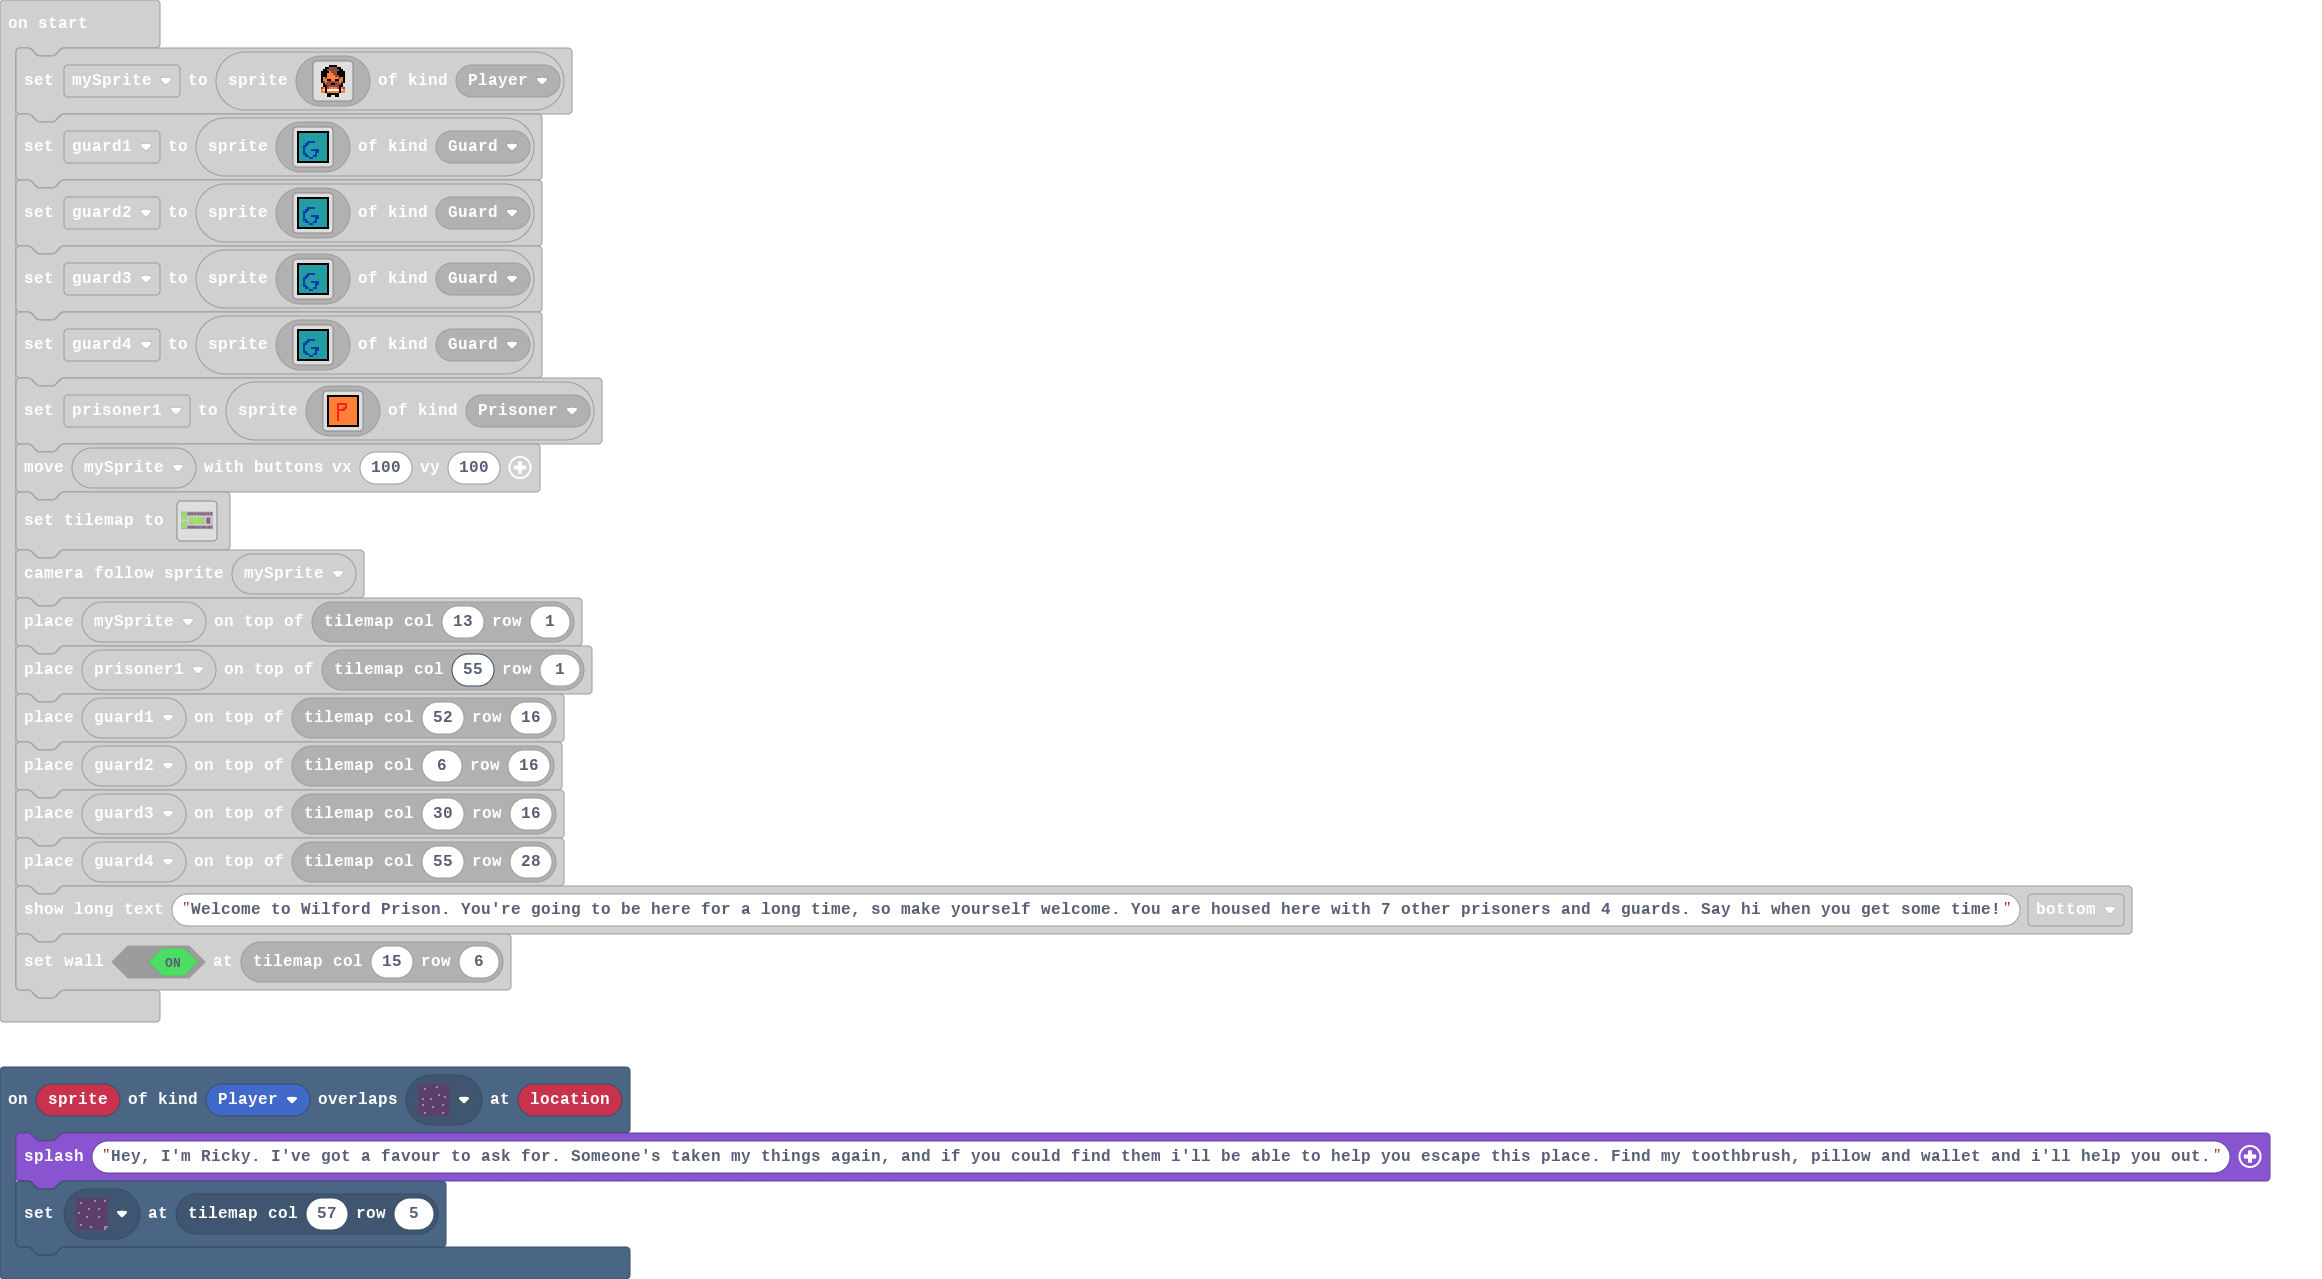
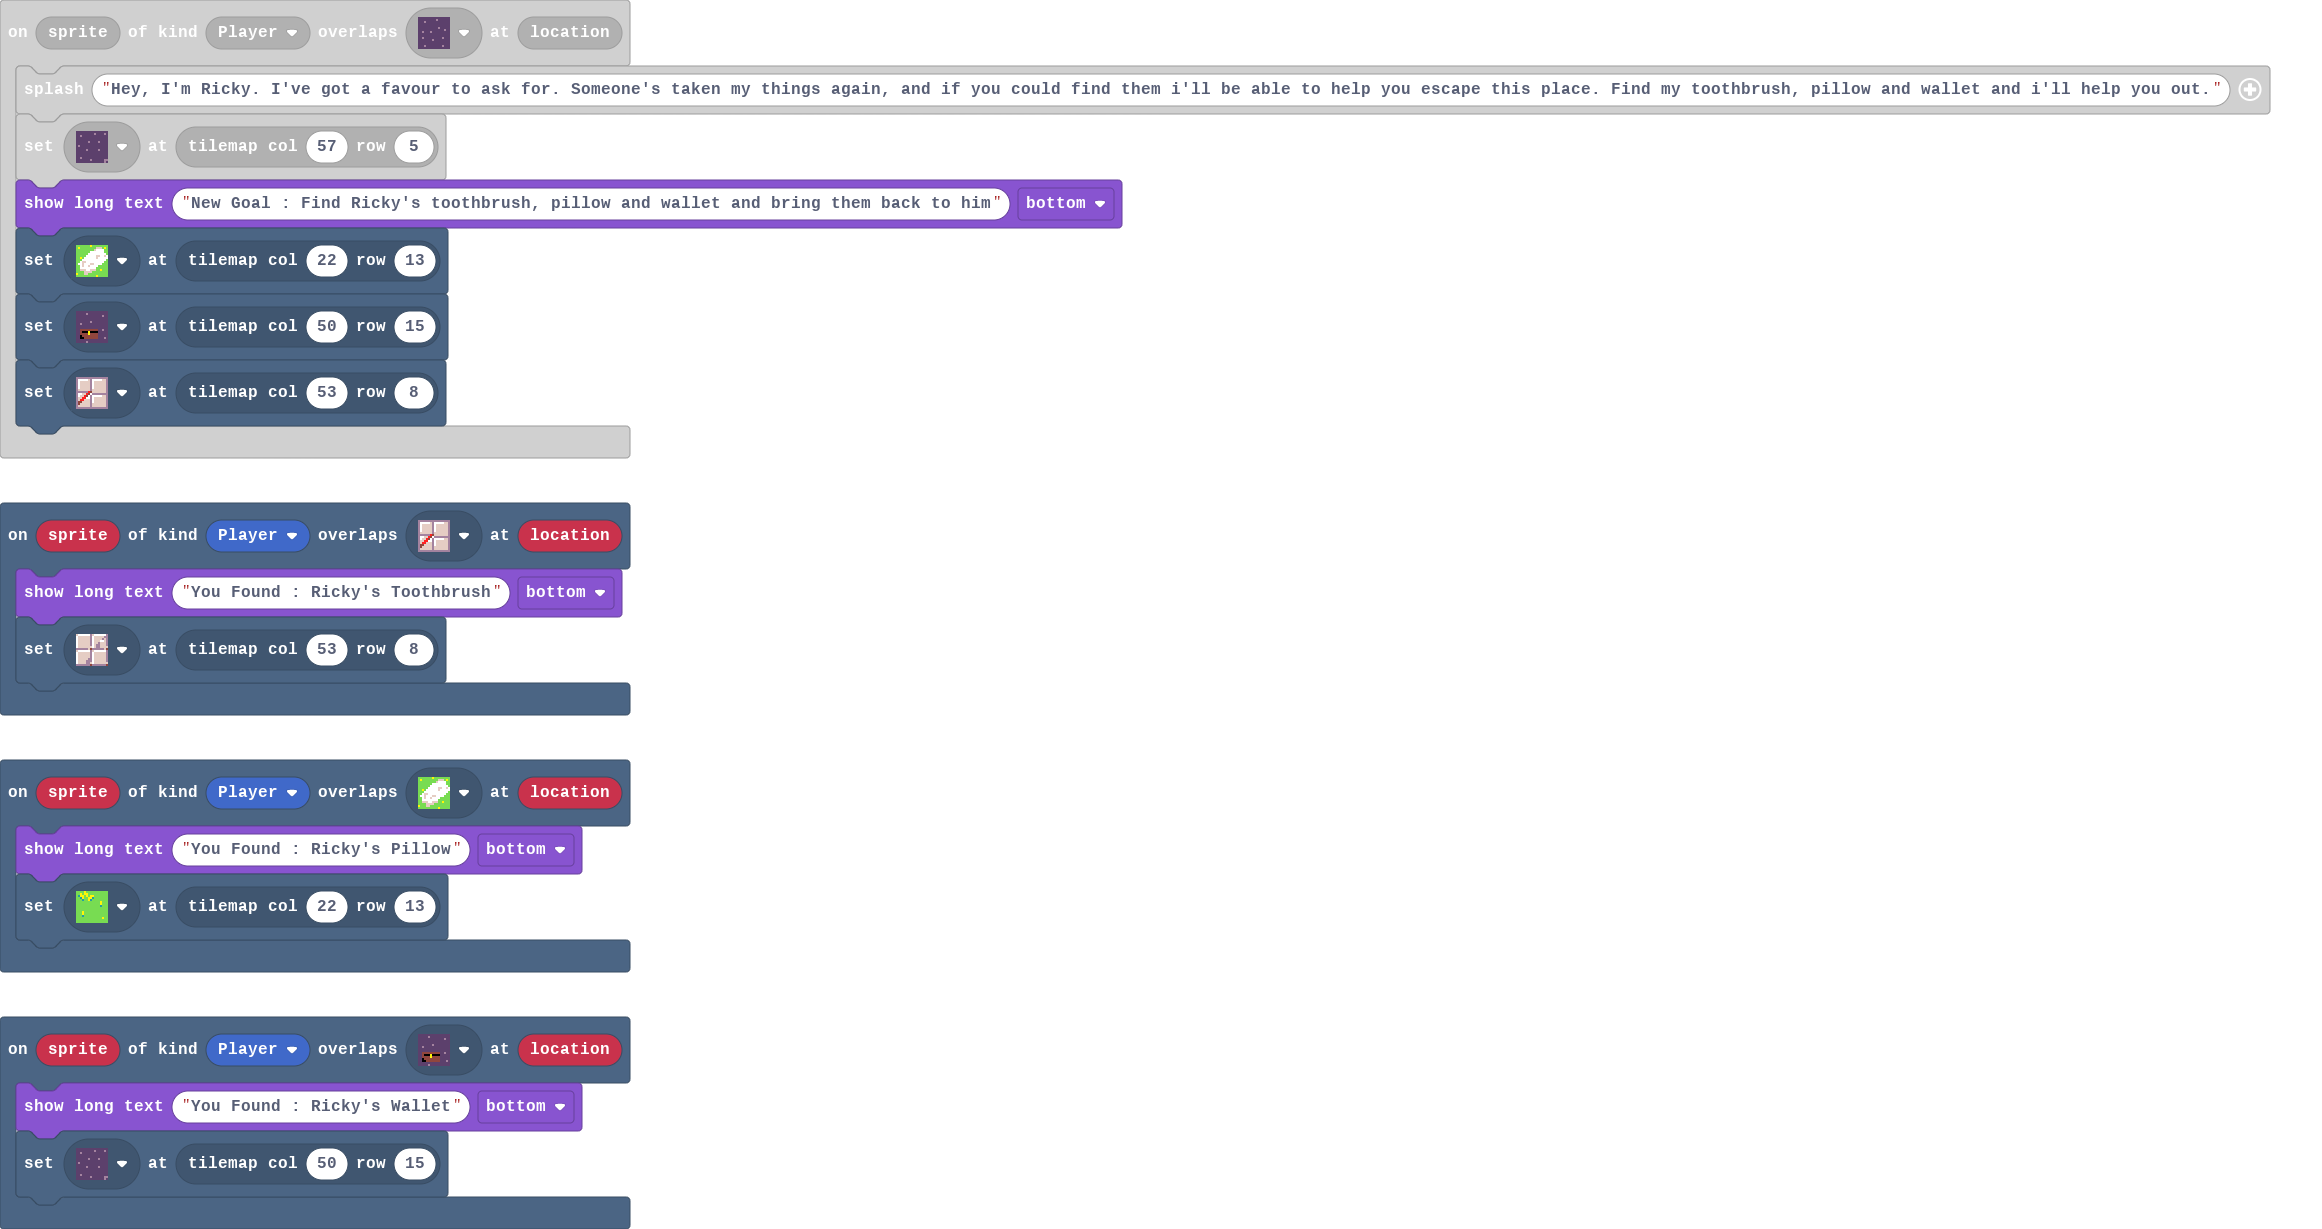
Story Updates + Puzzle added

Changed region(s): [[0.0, 0.0, 0.9922, 0.9585]]

diff --git a/tilemap.g.ts b/tilemap.g.ts
@@ -68,6 +68,12 @@ namespace myTiles {
     export const tile32 = image.ofBuffer(hex``);
     //% fixedInstance jres blockIdentity=images._tile
     export const tile33 = image.ofBuffer(hex``);
+    //% fixedInstance jres blockIdentity=images._tile
+    export const tile34 = image.ofBuffer(hex``);
+    //% fixedInstance jres blockIdentity=images._tile
+    export const tile35 = image.ofBuffer(hex``);
+    //% fixedInstance jres blockIdentity=images._tile
+    export const tile36 = image.ofBuffer(hex``);
 
     helpers._registerFactory("tilemap", function(name: string) {
         switch(helpers.stringTrim(name)) {
@@ -186,7 +192,7 @@ namespace myTiles {
 . . . . . . . . . . . . . . . . 
 `, [myTiles.transparency16], TileScale.Sixteen);
             case "level1":
[2 lines of base64/hex data omitted]
 2222222222222222222222222222222222222222222222222222222222222
 2...........2.....2.....2.....2.....2.....2.....2.....2.....2
 2...........2.....2.....2.....2.....2.....2.....2.....2.....2
@@ -219,7 +225,7 @@ namespace myTiles {
 2...........2...................2.....2..........2..........2
 2...........2...................2.....2..........2..........2
 2222222222222222222222222222222222222222222222222222222222222
-`, [myTiles.transparency16,myTiles.tile9,myTiles.tile13,myTiles.tile16,myTiles.tile17,myTiles.tile20,myTiles.tile21,myTiles.tile7,myTiles.tile8,sprites.castle.tileGrass1,myTiles.tile10,myTiles.tile11,myTiles.tile12,myTiles.tile15,myTiles.tile6,myTiles.tile23,sprites.dungeon.darkGroundNorthWest1,sprites.dungeon.floorLight4,sprites.castle.tileGrass3,sprites.castle.tileGrass2,sprites.dungeon.floorLightMoss,sprites.dungeon.floorLight5,sprites.dungeon.floorLight1,myTiles.tile25,myTiles.tile26,myTiles.tile27,myTiles.tile28,myTiles.tile29,myTiles.tile31,myTiles.tile30,myTiles.tile32,myTiles.tile33], TileScale.Sixteen);
+`, [myTiles.transparency16,myTiles.tile9,myTiles.tile13,myTiles.tile16,myTiles.tile17,myTiles.tile20,myTiles.tile21,myTiles.tile7,myTiles.tile8,sprites.castle.tileGrass1,myTiles.tile10,myTiles.tile11,myTiles.tile12,myTiles.tile15,myTiles.tile6,myTiles.tile23,sprites.dungeon.darkGroundNorthWest1,sprites.dungeon.floorLight4,sprites.castle.tileGrass3,sprites.castle.tileGrass2,sprites.dungeon.floorLightMoss,sprites.dungeon.floorLight5,sprites.dungeon.floorLight1,myTiles.tile25,myTiles.tile26,myTiles.tile27,myTiles.tile28,myTiles.tile29,myTiles.tile31,myTiles.tile30,myTiles.tile32,myTiles.tile33,myTiles.tile34,myTiles.tile35,myTiles.tile36], TileScale.Sixteen);
         }
         return null;
     })
@@ -293,6 +299,12 @@ namespace myTiles {
             case "tile32":return tile32;
             case "myTile30":
             case "tile33":return tile33;
+            case "myTile31":
+            case "tile34":return tile34;
+            case "myTile32":
+            case "tile35":return tile35;
+            case "myTile33":
+            case "tile36":return tile36;
         }
         return null;
     })

diff --git a/main.ts b/main.ts
@@ -61,6 +61,14 @@ controller.up.onEvent(ControllerButtonEvent.Pressed, function () {
     true
     )
 })
+scene.onOverlapTile(SpriteKind.Player, assets.tile`myTile32`, function (sprite, location) {
+    game.showLongText("You Found : Ricky's Wallet", DialogLayout.Bottom)
+    tiles.setTileAt(tiles.getTileLocation(50, 15), sprites.dungeon.darkGroundNorthWest1)
+})
+scene.onOverlapTile(SpriteKind.Player, assets.tile`myTile33`, function (sprite, location) {
+    game.showLongText("You Found : Ricky's Toothbrush", DialogLayout.Bottom)
+    tiles.setTileAt(tiles.getTileLocation(53, 8), sprites.dungeon.floorLight1)
+})
 controller.left.onEvent(ControllerButtonEvent.Pressed, function () {
     animation.runImageAnimation(
     mySprite,
@@ -244,9 +252,17 @@ controller.down.onEvent(ControllerButtonEvent.Pressed, function () {
     true
     )
 })
+scene.onOverlapTile(SpriteKind.Player, assets.tile`myTile31`, function (sprite, location) {
+    game.showLongText("You Found : Ricky's Pillow", DialogLayout.Bottom)
+    tiles.setTileAt(tiles.getTileLocation(22, 13), sprites.castle.tileGrass1)
+})
 scene.onOverlapTile(SpriteKind.Player, assets.tile`myTile30`, function (sprite, location) {
     game.splash("Hey, I'm Ricky. I've got a favour to ask for. Someone's taken my things again, and if you could find them i'll be able to help you escape this place. Find my toothbrush, pillow and wallet and i'll help you out.")
     tiles.setTileAt(tiles.getTileLocation(57, 5), sprites.dungeon.darkGroundNorthWest1)
+    game.showLongText("New Goal : Find Ricky's toothbrush, pillow and wallet and bring them back to him", DialogLayout.Bottom)
+    tiles.setTileAt(tiles.getTileLocation(22, 13), assets.tile`myTile31`)
+    tiles.setTileAt(tiles.getTileLocation(50, 15), assets.tile`myTile32`)
+    tiles.setTileAt(tiles.getTileLocation(53, 8), assets.tile`myTile33`)
 })
 let mySprite: Sprite = null
 mySprite = sprites.create(assets.image`Sprite`, SpriteKind.Player)
